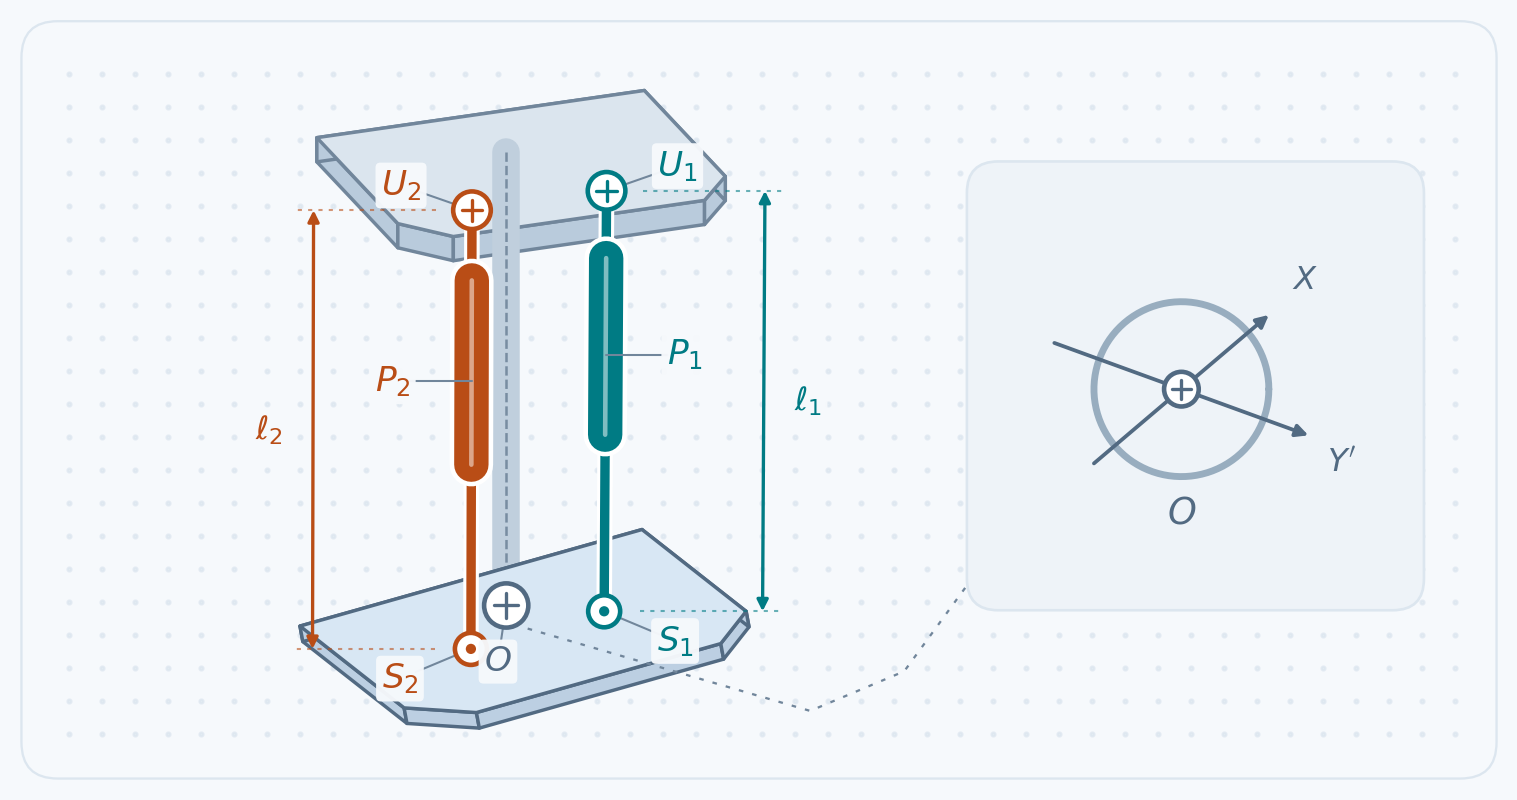
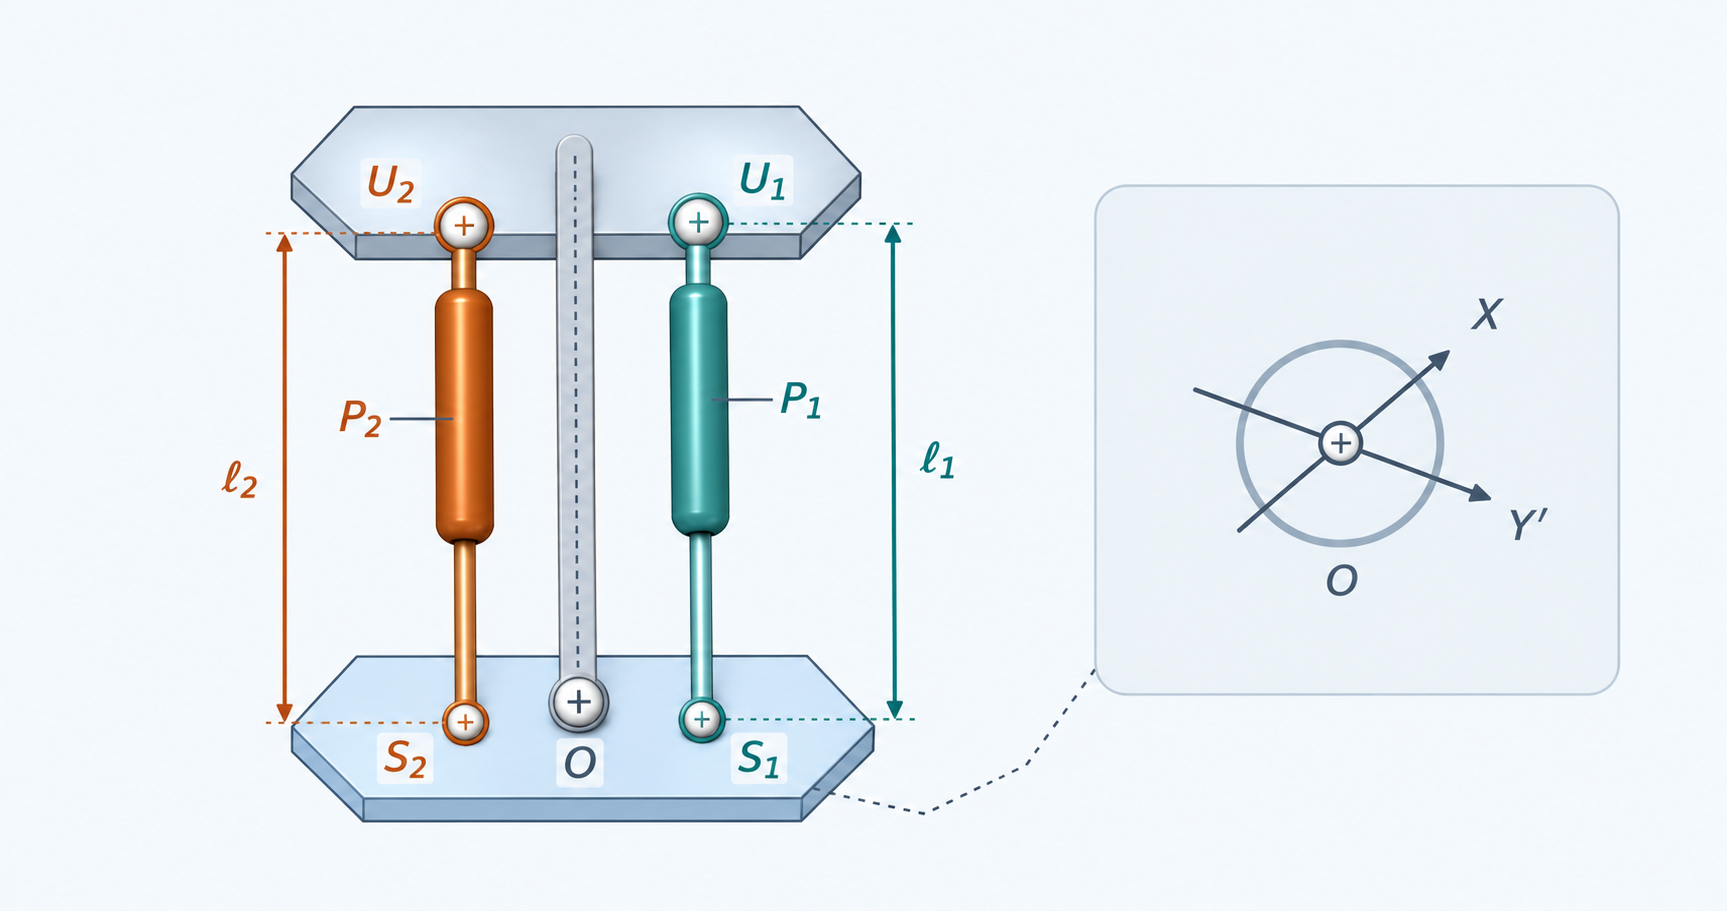
docs: use ImageGen mechanism illustrations

diff --git a/README.md b/README.md
@@ -16,7 +16,7 @@ Motors at `A₁` and `A₂` drive cranks `AᵢBᵢ`. The fixed-length rods `Bᵢ
 
 ![Planar five-bar. Two driven links extend from a fixed base to elbow joints. The distal links meet at the foot point, with dashed lines showing a second possible intersection.](docs/figures/planar-five-bar.png)
 
-The fixed base `A₁A₂`, two driven links, and two distal links form the closed loop. Motor angles `θ₁` and `θ₂` locate elbows `E₁` and `E₂`. The distal links can meet at `P` or `P′`, giving two assembly modes for the same motor angles. `PlanarFiveBar` uses the planar foot position `[x, y]` as its task coordinate. The diagram uses the asymmetric `five_bar_demo` geometry. [Five-bar coordinates and branches](docs/backends.md#一般平面五杆)
+The fixed base `A₁A₂`, two driven links, and two distal links form the closed loop. Motor angles `θ₁` and `θ₂` locate elbows `E₁` and `E₂`. The distal links can meet at `P` or `P′`, giving two assembly modes for the same motor angles. `PlanarFiveBar` uses the planar foot position `[x, y]` as its task coordinate. The schematic is based on the asymmetric `five_bar_demo` example. [Five-bar coordinates and branches](docs/backends.md#一般平面五杆)
 
 ### Dual linear-drive spatial ankle
 

diff --git a/README.zh-CN.md b/README.zh-CN.md
@@ -18,7 +18,7 @@
 
 ![平面五杆。两个主动杆从固定基座出发，在肘点连接远端杆，两条远端杆在足端汇合。虚线显示另一处足端交点。](docs/figures/planar-five-bar.png)
 
-固定基座 `A₁A₂` 与左右各一根主动杆和一根远端杆构成五杆闭环。两个电机角 `θ₁`、`θ₂` 决定肘点 `E₁`、`E₂`。远端杆的两个可能交点 `P`、`P′` 对应同一组电机角下的两个装配分支。`PlanarFiveBar` 的任务坐标为足端位置 `[x, y]`。图中采用 `five_bar_demo` 的非对称几何。[五杆坐标和分支](docs/backends.md#一般平面五杆)
+固定基座 `A₁A₂` 与左右各一根主动杆和一根远端杆构成五杆闭环。两个电机角 `θ₁`、`θ₂` 决定肘点 `E₁`、`E₂`。远端杆的两个可能交点 `P`、`P′` 对应同一组电机角下的两个装配分支。`PlanarFiveBar` 的任务坐标为足端位置 `[x, y]`。示意图以 `five_bar_demo` 的非对称构型为参考。[五杆坐标和分支](docs/backends.md#一般平面五杆)
 
 ### 双直线驱动空间脚踝
 
